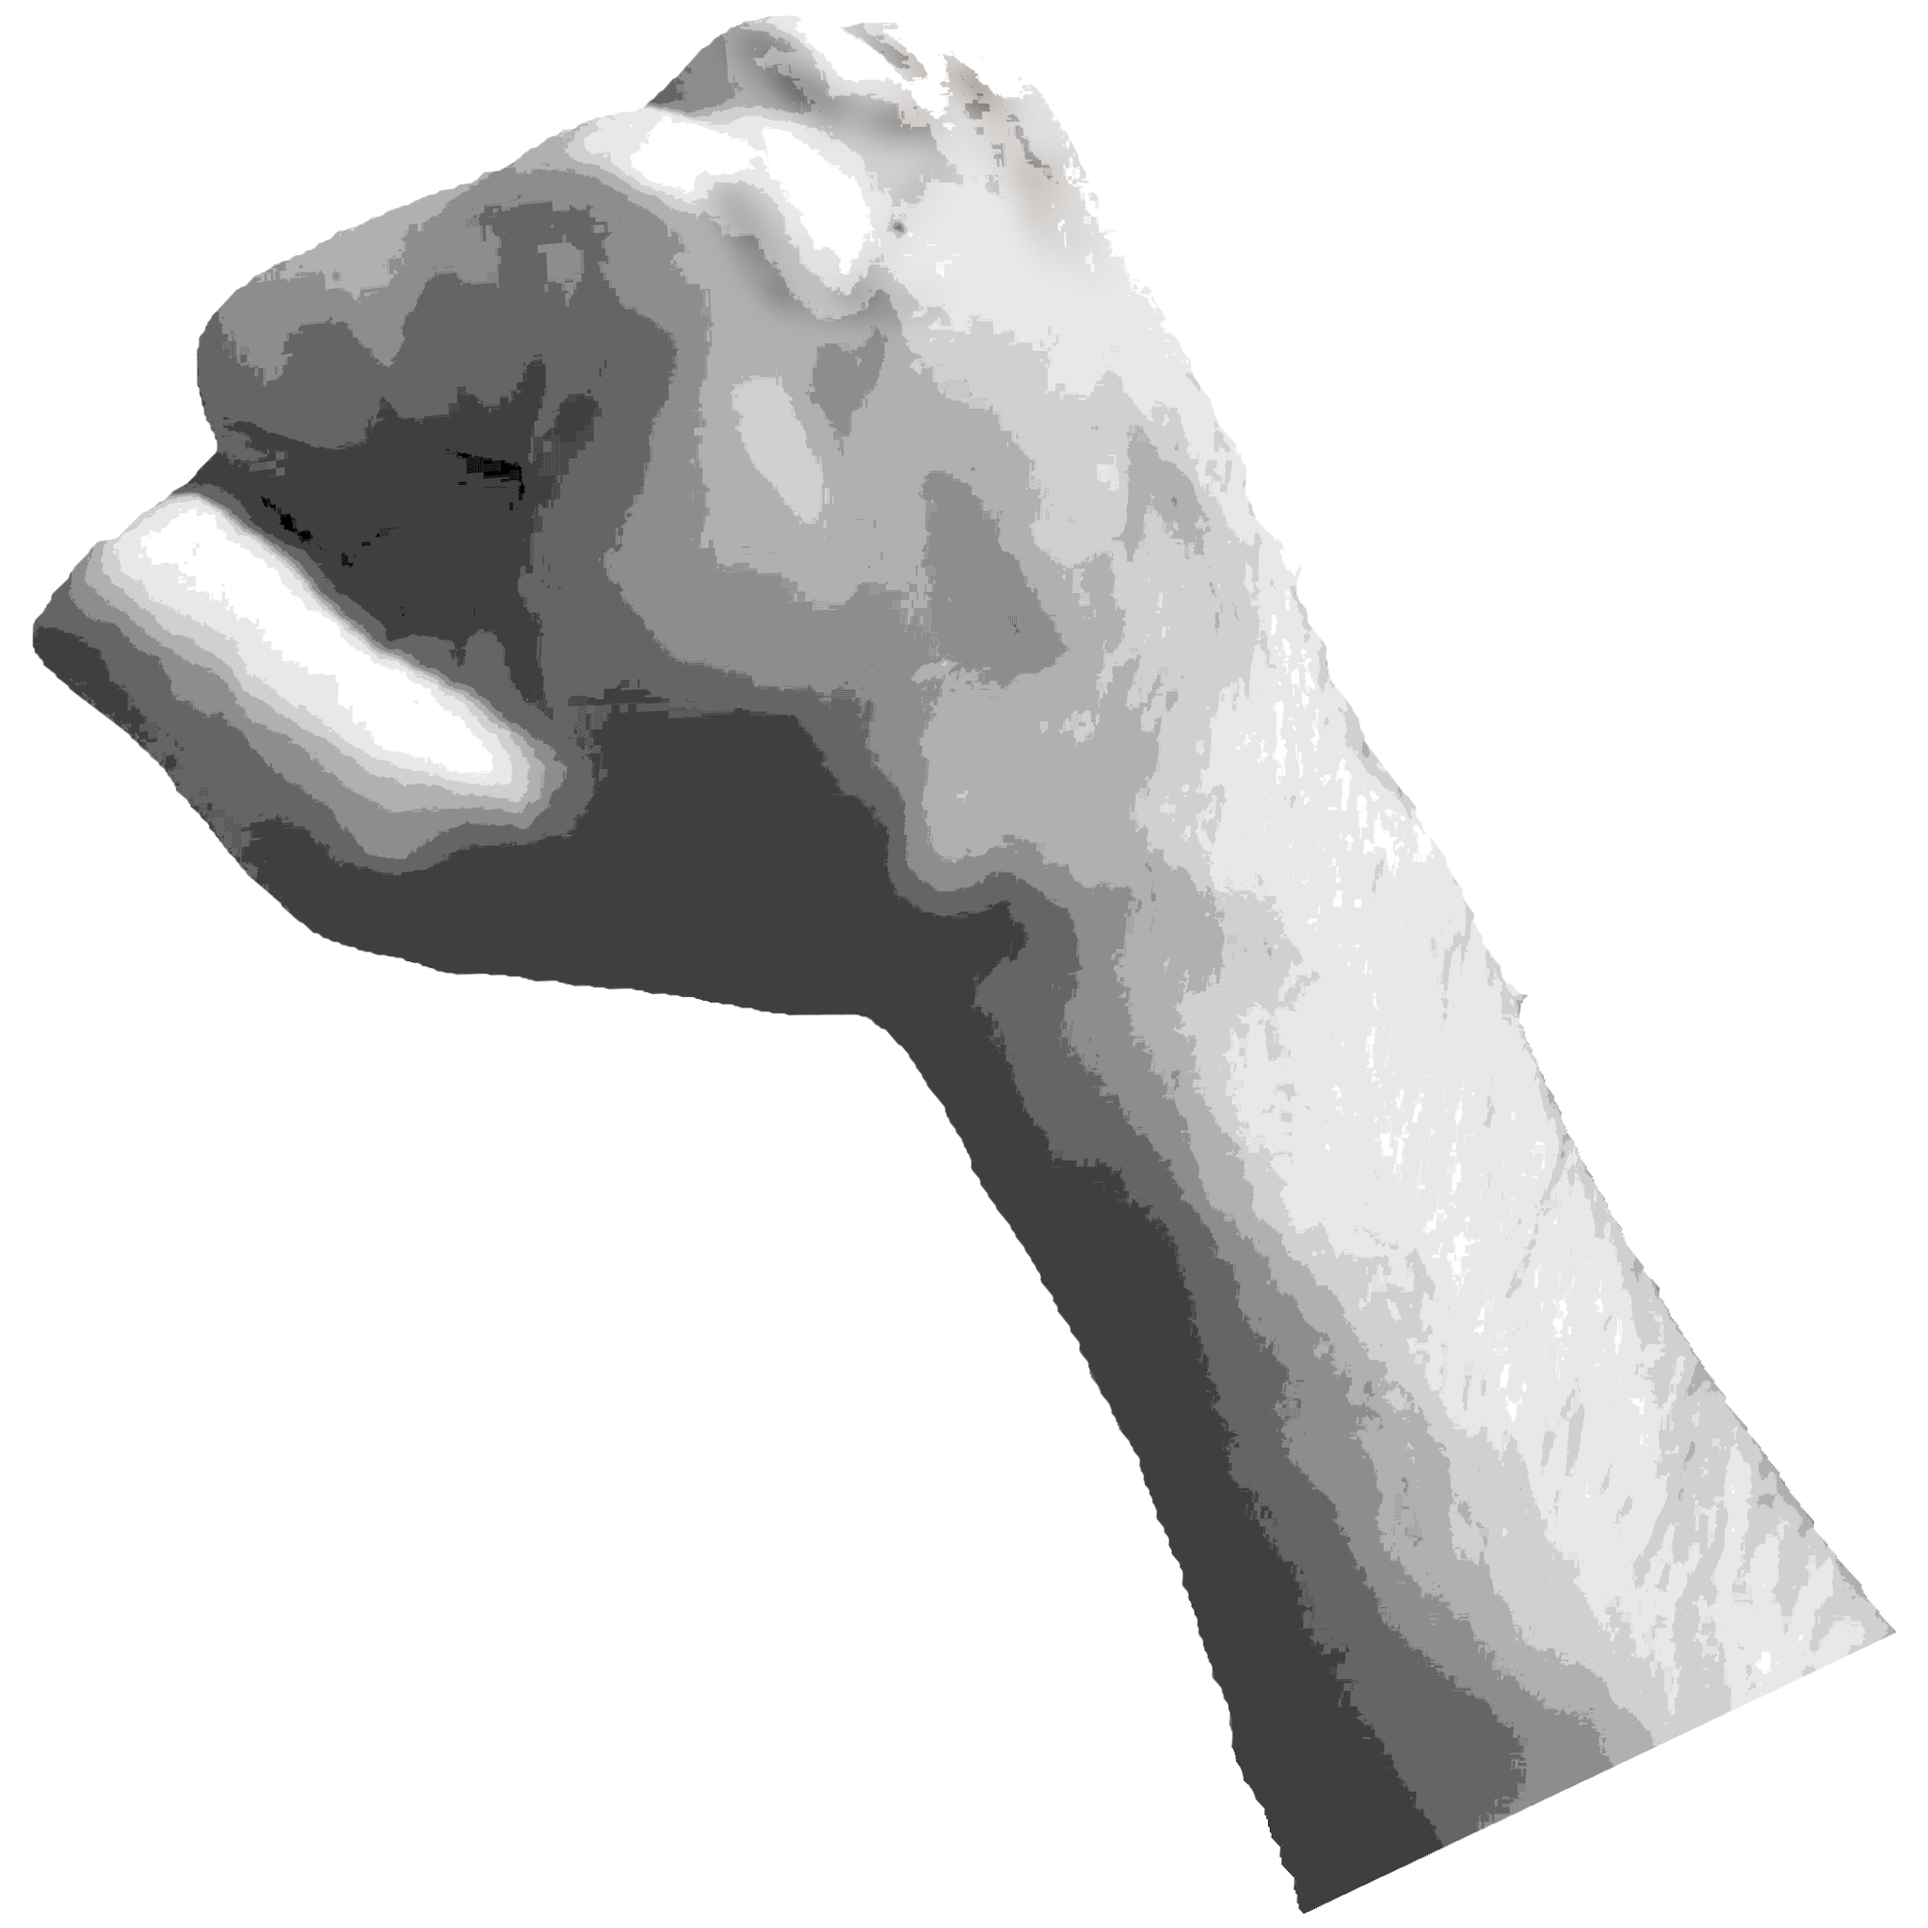
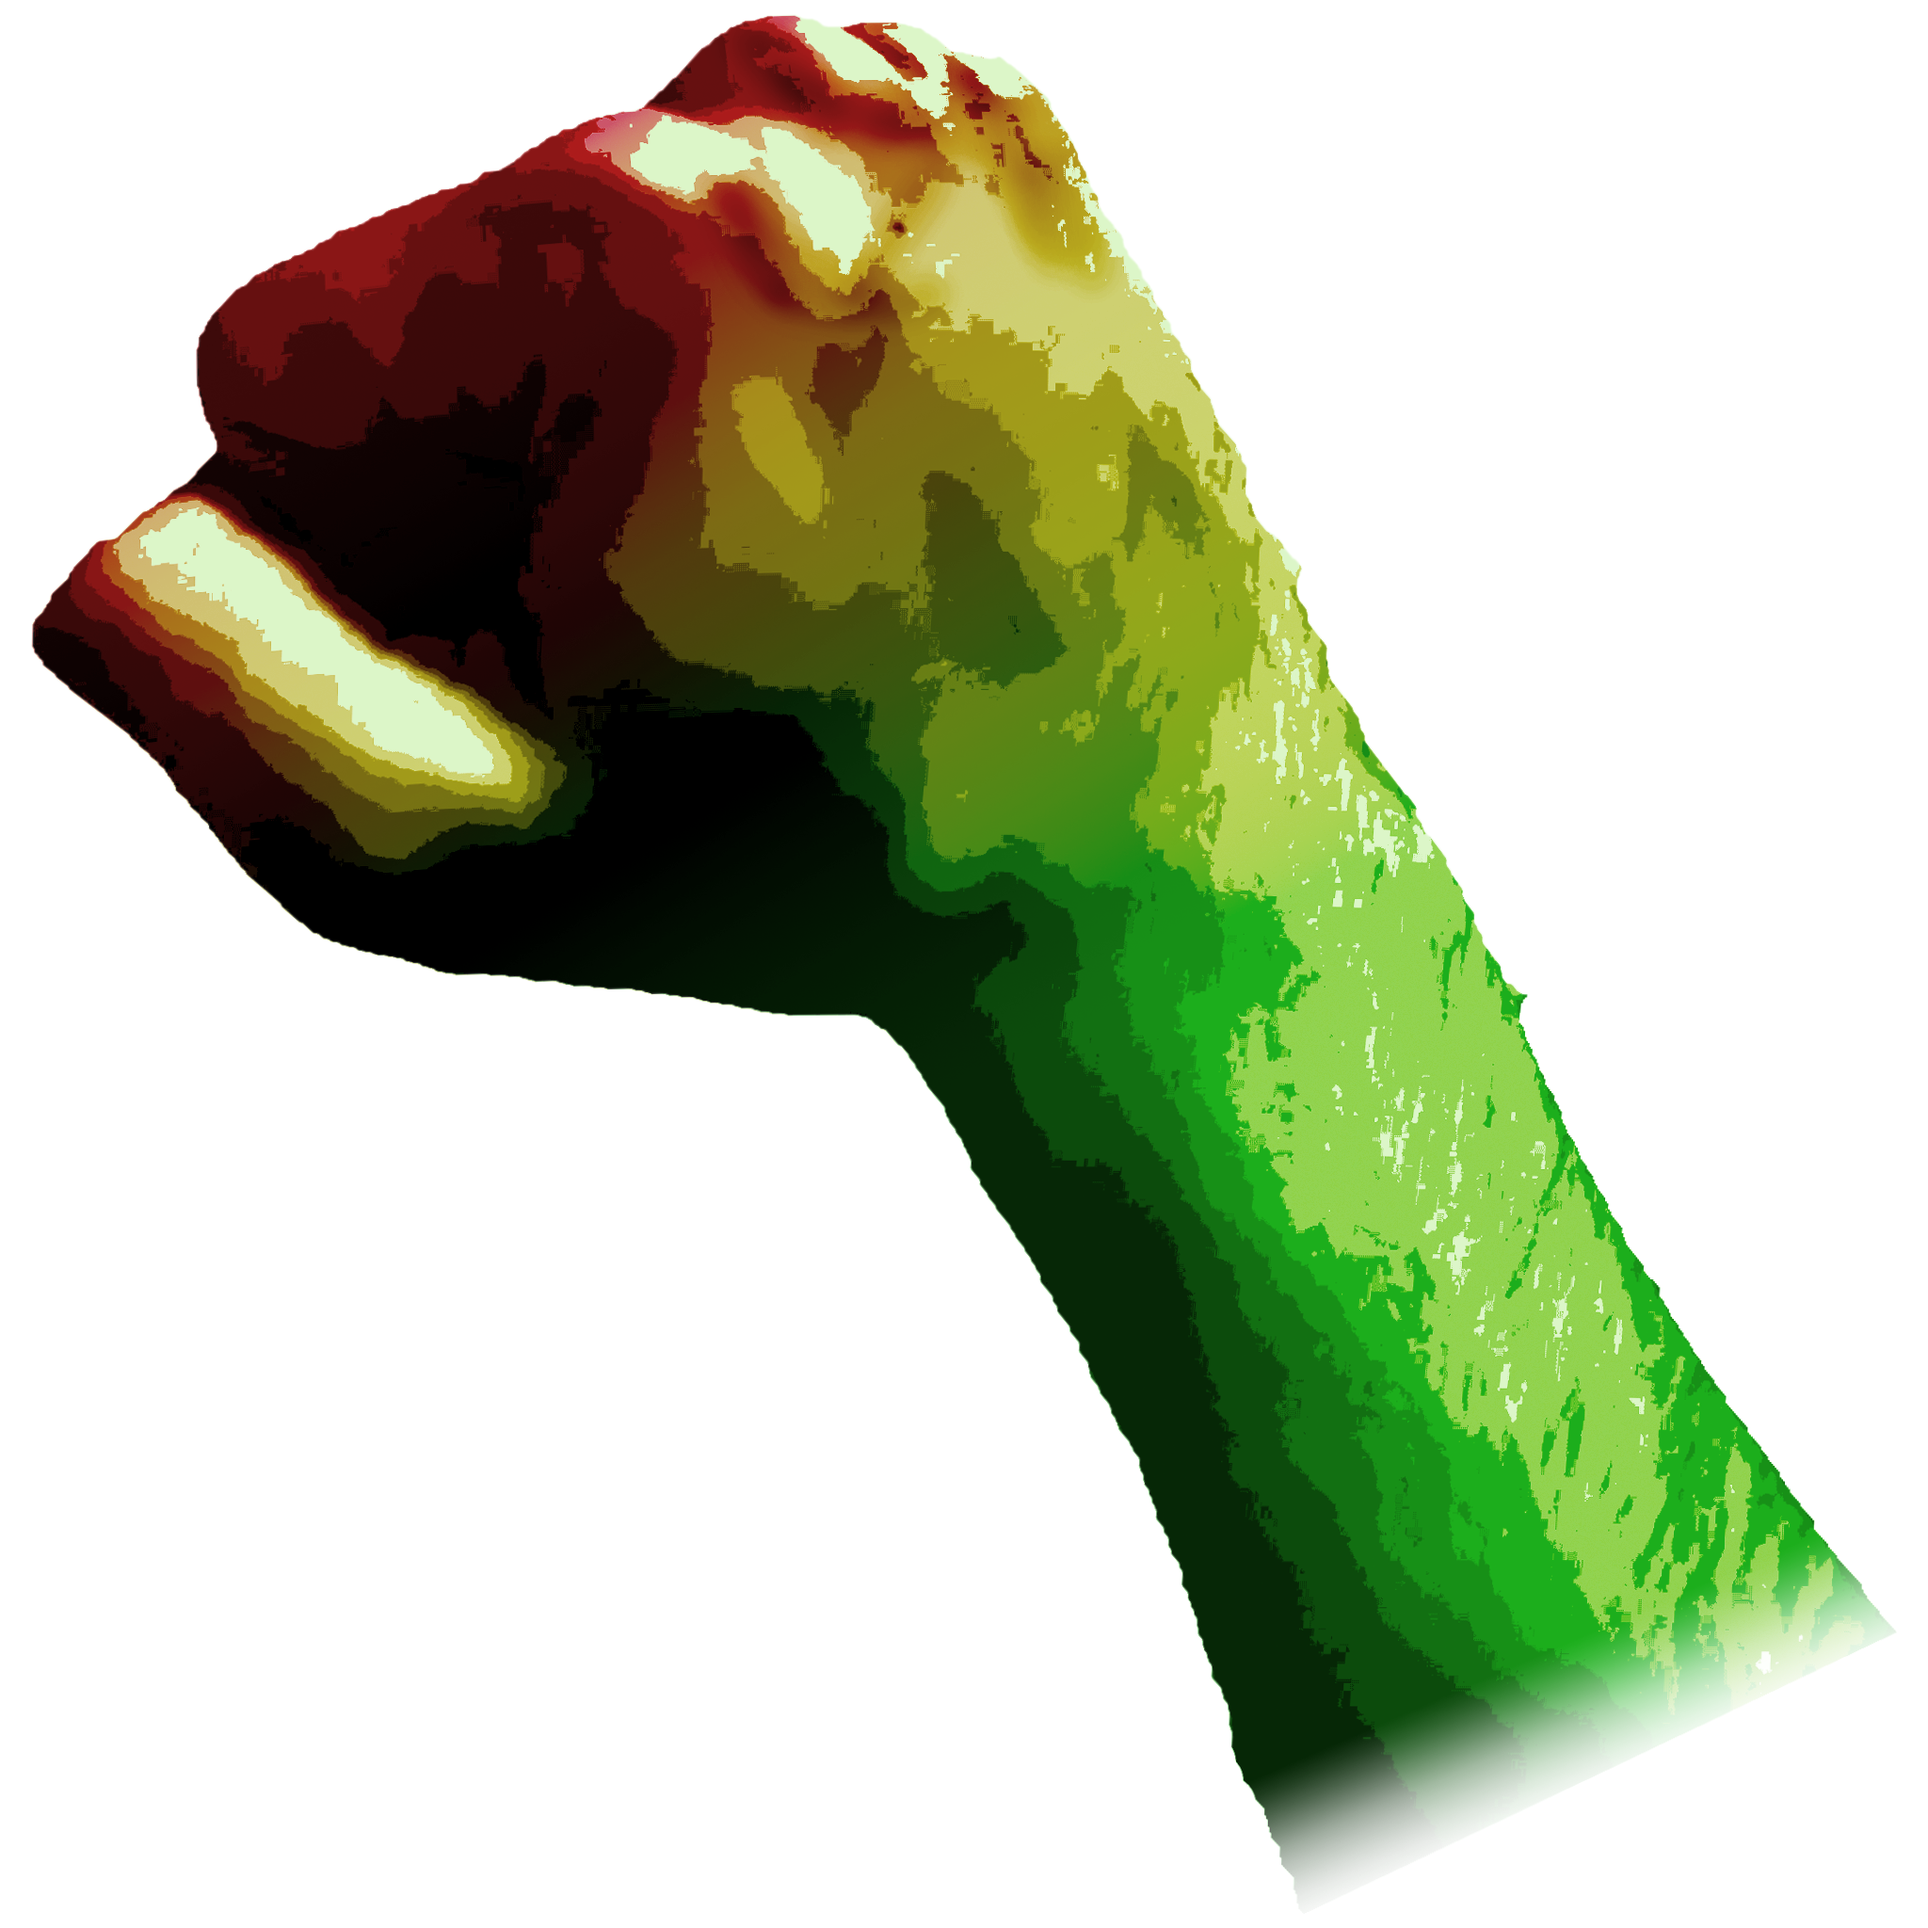
Reworked hand color and removed weird scaling

diff --git a/Assets/+++workdata/Scripts/Ability/Abilities/Punch.cs b/Assets/+++workdata/Scripts/Ability/Abilities/Punch.cs
@@ -24,7 +24,7 @@ public class Punch : Ability
     void PunchStart()
     {
         punch = Instantiate(punchPrefab, SlotManager.PlayerObj.position, Quaternion.identity);
-        punch.transform.parent = SlotManager.PlayerObj.transform;
+       // punch.transform.parent = SlotManager.PlayerObj.transform;
         punchController = punch.GetComponentInChildren<PunchController>();
         punchController.OnAttackFinished += PunchFinished;
 
